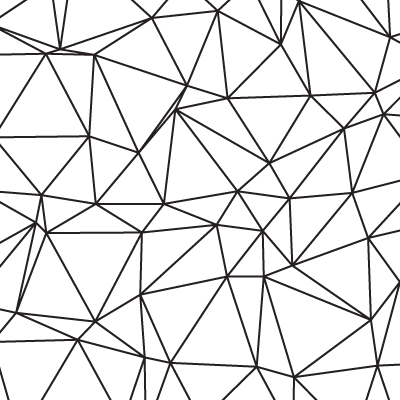
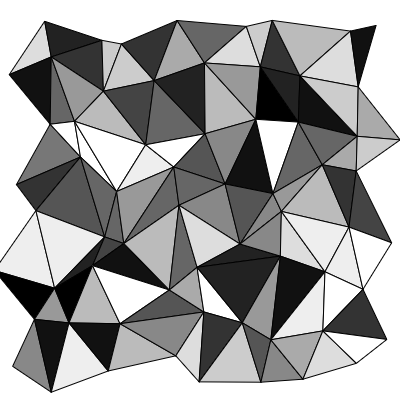
edits, contributor panel

diff --git a/themes/generative-artistry/static/css/syntax-highlighting.css b/themes/generative-artistry/static/css/syntax-highlighting.css
@@ -28,8 +28,9 @@
   font-style: italic;
 }
 .highlight .err {
-  color: #960050;
-  background-color: #1e0010;
+  /* Temporarily blocked out, because of chroma bugs */
+  /*color: #960050;*/
+  /*background-color: #1e0010;*/
 }
 .highlight .gi {
   color: #ffffff;

diff --git a/themes/generative-artistry/static/css/style.css b/themes/generative-artistry/static/css/style.css
@@ -183,6 +183,15 @@ article:nth-child(odd) + footer {
   font-size: 15px;
 }
 
+.tutorial-content p code {
+  background-color: #eee;
+}
+
+.tutorial-contributor {
+  background: #eee;
+  padding: 30px;
+}
+
 .tutorial-code {
   width: 320px;
   height: 280px;

diff --git a/content/tutorials/triangle-mesh.md b/content/tutorials/triangle-mesh.md
@@ -6,15 +6,17 @@ image = "/img/04-triangle-mesh.png"
 teaser = "Triangle meshs are the fundations of 3d modeling, building one doesn't require trigonometry crazyness."
 +++
 
-
 # Triangle mesh
 
+<p class="tutorial-contributor">
+This post is from the talented <a href="https://maxwellito.com/">Max Wellito</a>, if you're interested in posting, you can open up a <a href="https://github.com/tholman/generative-artistry/issues/6">proposal</a>, just like he did!
+</p>
 
-This effect has been declined to a lot of libraries and scripts based on D3.
+This effect triangular meshing effect is often shown off in libraries and shown off with SVG, today we're going to build it with the canvas! Its a great example of how a coordinate system, and a little displacement can give clean beautiful effects.
 
-The following tutorial will take place on a square canvas.
+As usual we begin with a little setup code, a square canvas. 
 
-<div id="tmd-1" class="tmd-trigger" data-from="0" data-action="replace" data-to="all">
+<div class="tmd-trigger" data-from="0" data-action="replace" data-to="all">
 {{< highlight js "linenos=table,linenostart=1" >}}
 var canvas = document.querySelector('canvas');
 var context = canvas.getContext('2d');
@@ -23,26 +25,25 @@ var size = window.innerWidth;
 
 canvas.width = size;
 canvas.height = size;
-
+  
 {{< / highlight >}}
 </div>
 
+Now let's make a grid of dots. The standard way, regular lines and columns. For every dot coordinate we will draw it on the canvas but also store the coordinate in an array for future use.
 
-Now let's make a grid of dots. The standard way, regular lines and columns. For every dot coordinate we will draw it on the canvas but also store the coordinate in a 2 dimensions array for future use.
+Every coordinate will be represented by an object with 2 properties: `x` and `y`.
 
-Every coordinate in this tutorial will be represented by an object with 2 properties: `x` and `y`.
+The space between lines and columns is defined by the variable `gap`, we'll draw these circles so we can see how our grid is placed out on the canvas.
 
-The space between lines and columns is defined by the variable `gap`.
-
-<div id="tmd-2" class="tmd-trigger" data-from="10" data-action="inject" data-to="10">
+<div class="tmd-trigger" data-from="10" data-action="inject" data-to="10">
 {{< highlight js "linenos=table,linenostart=9" >}}
 var line,
     lines = [],
-    gap = 50;
+    gap = size / 7;
 
-for (var y = 0; y < size; y+= gap) {
+for (var y = gap / 2; y <= size; y+= gap) {
   line = []
-  for (var x = 0; x < size; x+= gap) {
+  for (var x = gap / 2; x <= size; x+= gap) {
     line.push({x: x, y: y})
     context.beginPath();
     context.arc(x, y, 1, 0, 2 * Math.PI, true);
@@ -50,21 +51,25 @@ for (var y = 0; y < size; y+= gap) {
   }
   lines.push(line)
 }
+  
 {{< / highlight >}}
 </div>
 
-Now, we gonna move one out of two line on the x axis to an offset of half a gap. We can observe the new pattern is shaping a mesh of regular triangles.
+Now, we're going to displace every second line on the x axis. We do this by alternating the a variable called `odd` between true and false.
 
-<div id="tmd-2" class="tmd-trigger" data-from="8" data-action="replace" data-to="23">
+We can see that the new pattern is shaping up to be a mesh of regular triangles.
+
+<div class="tmd-trigger" data-from="8" data-action="replace" data-to="23">
 {{< highlight js "linenos=table,linenostart=9" >}}
 var line, dot,
     odd = false, 
-    lines = []
+    lines = [],
+    gap = size / 8;
 
-for (var y = 0; y < size; y+= gap) {
+for (var y = gap / 2; y <= size; y+= gap) {
   odd = !odd
   line = []
-  for (var x = 0; x < size; x+= gap) {
+  for (var x = gap / 4; x <= size; x+= gap) {
     dot = {x: x + (odd ? gap/2 : 0), y: y}
     line.push(dot)
     context.beginPath();
@@ -73,16 +78,16 @@ for (var y = 0; y < size; y+= gap) {
   }
   lines.push(line)
 }
+
 {{< / highlight >}}
 </div>
 
-
 The next step will be using the dots to draw the triangles. 
 
-To make our life easier let's make a function that take the 3 coordinates of a triangle and draw it for us.
+To make our life easier let's make a function that take the 3 coordinates of a triangle and draw them together.
 
-<div id="tmd-3" class="tmd-trigger" data-from="24" data-action="inject" data-to="24">
-{{< highlight js "linenos=table,linenostart=24" >}}
+<div class="tmd-trigger" data-from="26" data-action="inject" data-to="26">
+{{< highlight js "linenos=table,linenostart=26" >}}
 function drawTriangle(pointA, pointB, pointC) {
   context.beginPath();
   context.moveTo(pointA.x, pointA.y);
@@ -95,16 +100,13 @@ function drawTriangle(pointA, pointB, pointC) {
 {{< / highlight >}}
 </div>
 
+Now we'll string up our `drawTriangle` function, and use the dots we generated earlier to draw all the triangles.
 
-Then use the dots we generated earlier to draw all the triangles.
+This part might be a bit complex to understand. The script is going to go through all the lines and combining the two dots of the sibling line, forming triangles. The concatenation of two lines, let's say line `a` and line `b`, and merge the dots into one array to make it look like a zig-zag: `a1`, `b1`, `a2`, `b2`, `a3` etc. 
 
-This part might be a bit complex to understand. The script gonna through all the lines and combine the dots of 2 sibling lines. The concatenation of two lines, let's say line `a` and line `b`, marge the dots into one array to make it look like a zig-zap: `a1`, `b1`, `a2`, `b2`, `a3`... 
+This will give us an array, containing each triangles specific coordinates. Looking something like [`a1`, `b1`, `a2`], [`b1`, `a2`, `b2`], [`a2`, `b2`, `a3`]...
 
-From this concatenation, we gonna keep moving a window of 3 coordinates till the end of it. It should look like [`a1`, `b1`, `a2`], [`b1`, `a2`, `b2`], [`a2`, `b2`, `a3`]...  Each bloc represent a triangle to draw.
-
-However, there's an important detail. While concatenating, the first dot must be the one the most on the left of the canvas. In our case, the first dot will always be the one from even lines.
-
-<div id="tmd-4" class="tmd-trigger" data-from="33" data-action="inject" data-to="33">
+<div class="tmd-trigger" data-from="36" data-action="inject" data-to="36">
 {{< highlight js "linenos=table,linenostart=33" >}}
 var dotLine;
 odd = true;
@@ -125,24 +127,26 @@ for (var y = 0; y < lines.length - 1; y++) {
 
 We have a now a regular triangle mesh, we are one detail away to let the magic happen.
 
-Every dot is a `gap` away from dots around. So a dot can be moved in this area without overlapping with other dots. Let's use a bit of `Math.random()` to add get a random position in this area. To make it look better, the following code is restricting the area to 80% of it. 
+Every dot is a `gap` away from the surrounding dots. So a dot can be moved in this area without overlapping with other dots. Let's use a bit of `Math.random()` to add get a random position in this area.
 
-<div id="tmd-5" class="tmd-trigger" data-from="16" data-action="replace" data-to="20">
+<div class="tmd-trigger" data-from="17" data-action="replace" data-to="22">
 {{< highlight js "linenos=table,linenostart=16" >}}
-line.push({
-  x: x + (Math.random()*.8 - .4) * gap  + (odd ? gap/2 : 0),
-  y: y + (Math.random()*.8 - .4) * gap,
-})
+    line.push({
+      x: x + (Math.random()*.8 - .4) * gap  + (odd ? gap/2 : 0),
+      y: y + (Math.random()*.8 - .4) * gap,
+    })
 {{< / highlight >}}
 </div>
 
+And for a little extra generative fun, lets add in some grays! Only 16 shades. No more.
 
-Extra bonus: let's add a bit of gray. Only 16 shades. No more.
-
-<div id="tmd-6" class="tmd-trigger" data-from="31" data-action="inject" data-to="31">
+<div class="tmd-trigger" data-from="32" data-action="inject" data-to="32">
 {{< highlight js "linenos=table,linenostart=30" >}}
-var gray = Math.floor(Math.random()*16).toString(16);
-context.fillStyle = '#' + gray + gray + gray; 
-context.fill();
+  var gray = Math.floor(Math.random()*16).toString(16);
+  context.fillStyle = '#' + gray + gray + gray; 
+  context.fill();
 {{< / highlight >}}
 </div>
+
+If you're interested in exploring more detailed implementations of this effect, you can check out my library: [triangulr](http://maxwellito.github.io/triangulr/)
+
